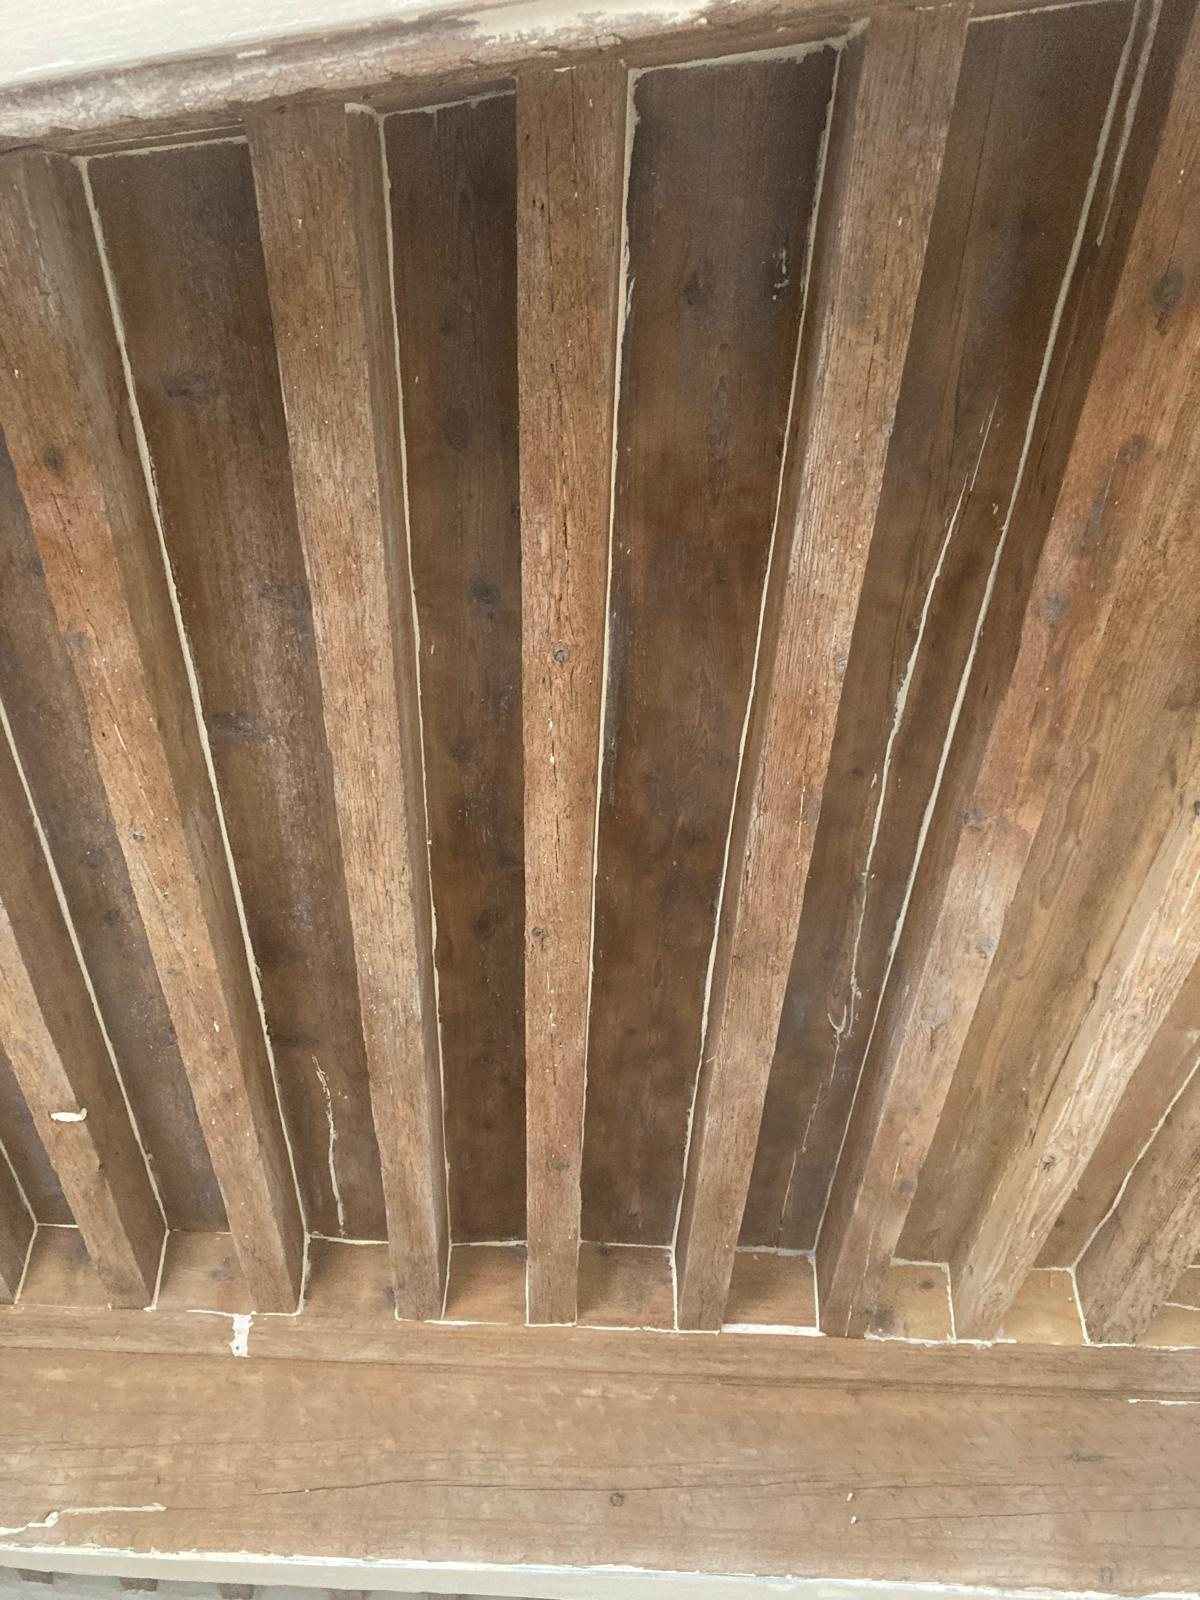
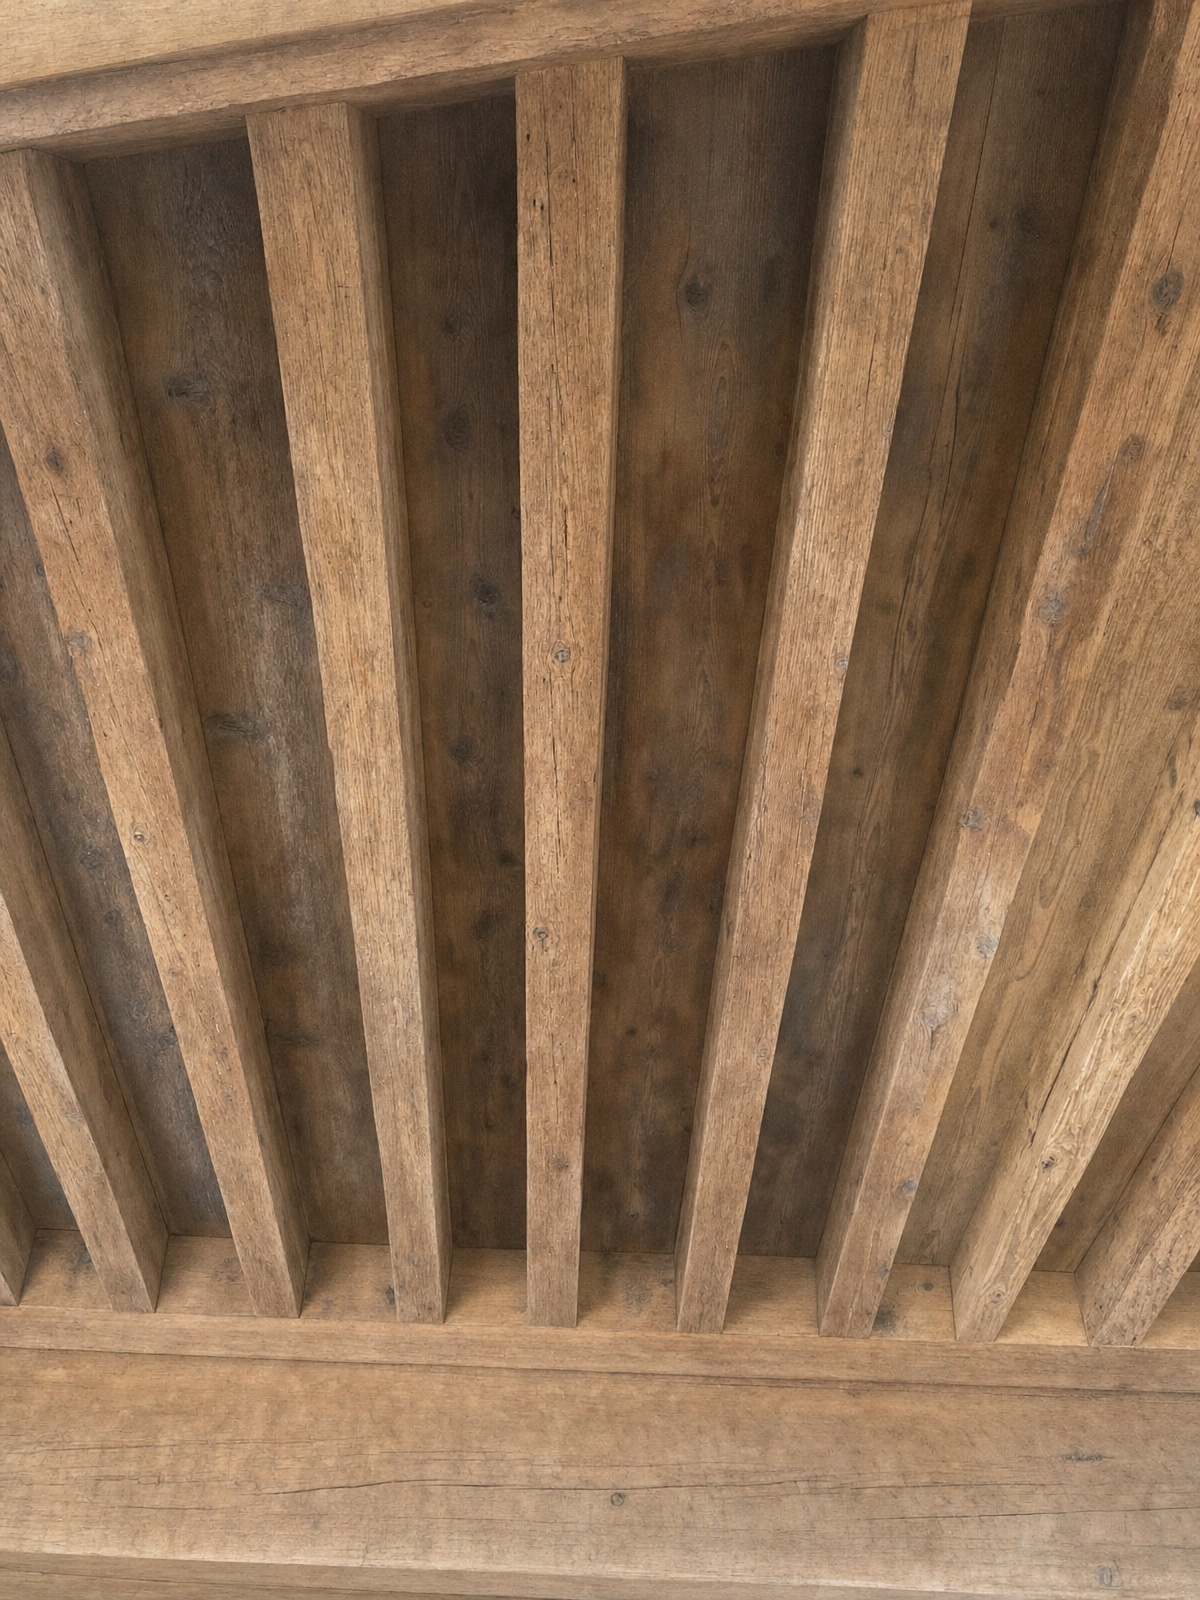
Site FLG : « Et aussi » retiré, escalier/portail simplifiés, photo « plafond après » retouchée (#403)
* Site de FLG Aérogommage : application flg/, page des grands chantiers et système de design

* Site FLG : retours du gérant (zone, sols et tomettes, sans industrie ni FAQ, contact)

* Graphe à jour

* Site FLG : section chantiers simplifiée (chantier extérieur, plafond intérieur, charpente et escalier côte à côte)

* Site FLG : adresse e-mail flgaerogommage@gmail.com sous le téléphone du contact

* Site FLG : méthode en cinq étapes, textes des étapes et chantiers revus

* Site FLG : film « avant » de la galerie à la place de la photo du milieu

* Site FLG : bloc « Et aussi » retiré

* Site FLG : escalier et portail simplifiés, encart plomb agrandi, ligne microbillage retirée

* Site FLG : photo « plafond après » retouchée (traces blanches retirées)

---------

Changed region(s): [[0.0, 0.0, 1.0, 1.0]]

diff --git a/flg/app/page.tsx b/flg/app/page.tsx
@@ -7,7 +7,6 @@ import { QuoteForm } from "@/components/quote-form";
 import { Logo, SiteNav } from "@/components/site-nav";
 import { VideoLoop } from "@/components/video-loop";
 import {
-  alsoOffered,
   applications,
   audiences,
   cases,
@@ -154,20 +153,12 @@ export default function Home() {
               {cases.map((c) => (
                 <Reveal key={c.title}>
                   <BeforeAfter before={c.before} after={c.after} alt={c.title} sizes={half} className="aspect-[4/5]" />
-                  {c.kind && <p className="label mt-6 text-accent-text">{c.kind}</p>}
-                  <h3 className={`display display-s ${c.kind ? "mt-3" : "mt-6"}`}>{c.title}</h3>
-                  {c.body && <p className="mt-3 max-w-md text-muted">{c.body}</p>}
+                  <h3 className="display display-s mt-6">{c.title}</h3>
                 </Reveal>
               ))}
             </div>
 
             <div className="mt-24 grid gap-6 md:mt-32 md:grid-cols-12">
-              <div className="md:col-span-4">
-                <p className="label text-muted">Et aussi</p>
-                <p className="mt-4 max-w-xs text-muted">
-                  Les mêmes gestes sur des ouvrages plus petits, quand ils accompagnent un chantier.
-                </p>
-              </div>
               {smallCases.map((c) => (
                 <Reveal key={c.title} className="md:col-span-4">
                   <BeforeAfter
@@ -177,8 +168,7 @@ export default function Home() {
                     sizes="(min-width: 768px) 30vw, 100vw"
                     className="aspect-square"
                   />
-                  <p className="label mt-4 text-accent-text">{c.kind}</p>
-                  <h3 className="mt-2 font-medium">{c.title}</h3>
+                  <h3 className="mt-4 font-medium">{c.title}</h3>
                   <p className="mt-1 text-[0.95rem] text-muted">{c.body}</p>
                 </Reveal>
               ))}
@@ -253,10 +243,9 @@ export default function Home() {
                 </Reveal>
               ))}
             </div>
-            <p className="mt-6 text-muted">{alsoOffered}</p>
-            <Reveal className="mt-6 grid gap-4 border border-accent/50 p-8 md:grid-cols-12">
-              <p className="label text-accent-text md:col-span-3">Peintures au plomb</p>
-              <p className="text-muted md:col-span-9">
+            <Reveal className="mt-6 grid gap-6 border border-accent/50 p-8 md:grid-cols-12 md:p-12">
+              <p className="display display-s text-accent-text md:col-span-4">Peintures au plomb</p>
+              <p className="lead text-muted md:col-span-8">
                 Elles ne se décapent pas par aérogommage. Dans le bâti ancien, un diagnostic plomb est à réaliser avant
                 toute intervention : nous vous le demanderons lors de la visite.
               </p>

diff --git a/flg/lib/content.ts b/flg/lib/content.ts
@@ -46,7 +46,6 @@ export const proofs = [
 
 export type Case = {
   title: string;
-  kind?: string;
   body?: string;
   before: StaticImageData;
   after: StaticImageData;
@@ -69,20 +68,13 @@ export const featured = {
 
 export const cases: readonly Case[] = [
   { title: "Charpente extérieure", before: charpenteAvant, after: charpenteApres },
-  {
-    title: "Escalier en chêne",
-    kind: "Escalier · Intérieur",
-    body: "Marches peintes, chêne retrouvé.",
-    before: escalierAvant,
-    after: escalierApres,
-  },
+  { title: "Escalier intérieur", before: escalierAvant, after: escalierApres },
 ];
 
 export const smallCases: readonly Case[] = [
   {
     title: "Portail métallique",
-    kind: "Métal · Extérieur",
-    body: "Décapé jusqu'au métal sain, puis repeint.",
+    body: "Décapé, application anti-rouille.",
     before: portailAvant,
     after: portailApres,
   },
@@ -102,7 +94,6 @@ export const applications = [
   { title: "Métal", items: ["Portails et garde-corps", "Structures et ossatures", "Préparation avant peinture"] },
 ] as const;
 
-export const alsoOffered = "Aussi : microbillage de pièces inox et aluminium, dépolissage du verre au pochoir.";
 
 export const audiences = [
   { title: "Architectes et maîtres d'œuvre", body: "Restituer un bâti ancien sans le dénaturer, préparer un support avant finition." },
